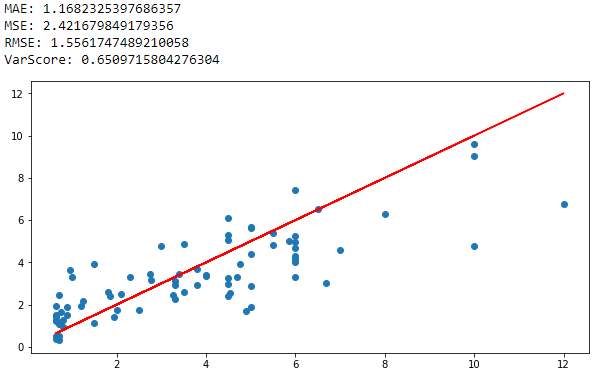
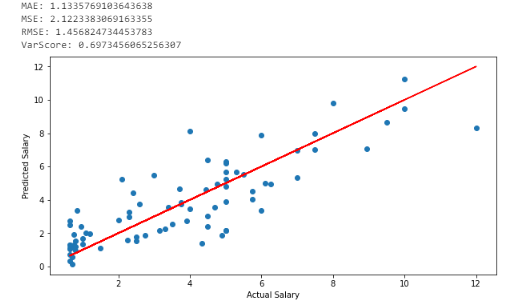
Updates to NHLsalarypredictor

diff --git a/.ipynb_checkpoints/NHLSalaryPredictor-checkpoint.py b/.ipynb_checkpoints/NHLSalaryPredictor-checkpoint.py
@@ -74,6 +74,8 @@ def LR_evaluation(X_train, X_test, Y_train, Y_test, y_pred_reg): # evaluate the 
     plt.figure(figsize=(10,5));
     plt.scatter(df['Actual'], df['Predicted']);
     plt.plot(df['Actual'], df['Actual'],'r');
+    plt.xlabel('Actual Salary')
+    plt.ylabel('Predicted Salary')
     resids = (Y_test - y_pred_reg)
     sns.displot(resids);
     return
@@ -93,6 +95,8 @@ def nn_model_evaluation(Y_test, y_pred, history):
     fig = plt.figure(figsize=(10,5))
     plt.scatter(Y_test,y_pred)
     plt.plot(Y_test,Y_test,'r')
+    plt.xlabel('Actual Salary')
+    plt.ylabel('Predicted Salary')
     from sklearn import metrics
     print('MAE:', metrics.mean_absolute_error(Y_test, y_pred))  
     print('MSE:', metrics.mean_squared_error(Y_test, y_pred))  

diff --git a/NHLSalaryPredictor.py b/NHLSalaryPredictor.py
@@ -74,6 +74,8 @@ def LR_evaluation(X_train, X_test, Y_train, Y_test, y_pred_reg): # evaluate the 
     plt.figure(figsize=(10,5));
     plt.scatter(df['Actual'], df['Predicted']);
     plt.plot(df['Actual'], df['Actual'],'r');
+    plt.xlabel('Actual Salary')
+    plt.ylabel('Predicted Salary')
     resids = (Y_test - y_pred_reg)
     sns.displot(resids);
     return
@@ -93,6 +95,8 @@ def nn_model_evaluation(Y_test, y_pred, history):
     fig = plt.figure(figsize=(10,5))
     plt.scatter(Y_test,y_pred)
     plt.plot(Y_test,Y_test,'r')
+    plt.xlabel('Actual Salary')
+    plt.ylabel('Predicted Salary')
     from sklearn import metrics
     print('MAE:', metrics.mean_absolute_error(Y_test, y_pred))  
     print('MSE:', metrics.mean_squared_error(Y_test, y_pred))  
